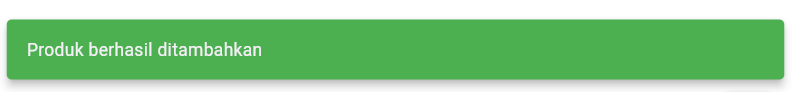
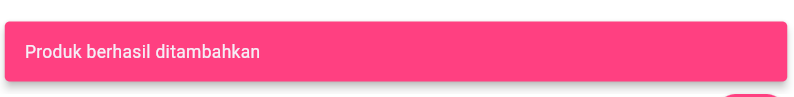
update form page and screenshots

diff --git a/manajemen_butik/lib/pages/form_page.dart b/manajemen_butik/lib/pages/form_page.dart
@@ -133,13 +133,9 @@ class _FormPageState extends State<FormPage> {
         hargaController.text.isEmpty ||
         stokController.text.isEmpty) {
       ScaffoldMessenger.of(context).showSnackBar(
-        SnackBar(
-          content: Text(
-            widget.product == null
-                ? "Produk berhasil ditambahkan"
-                : "Produk berhasil diperbarui",
-          ),
-          backgroundColor: const Color(0xFFFF4081),
+        const SnackBar(
+          content: Text("Semua field wajib diisi!"),
+          backgroundColor: Colors.red,
           behavior: SnackBarBehavior.floating,
         ),
       );
@@ -192,7 +188,7 @@ class _FormPageState extends State<FormPage> {
                 ? "Produk berhasil ditambahkan"
                 : "Produk berhasil diperbarui",
           ),
-          backgroundColor: Colors.green,
+          backgroundColor: const Color(0xFFFF4081),
           behavior: SnackBarBehavior.floating,
         ),
       );
